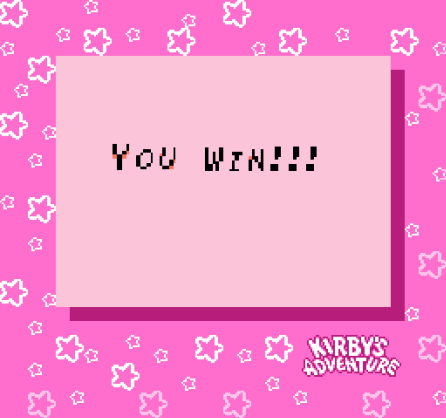
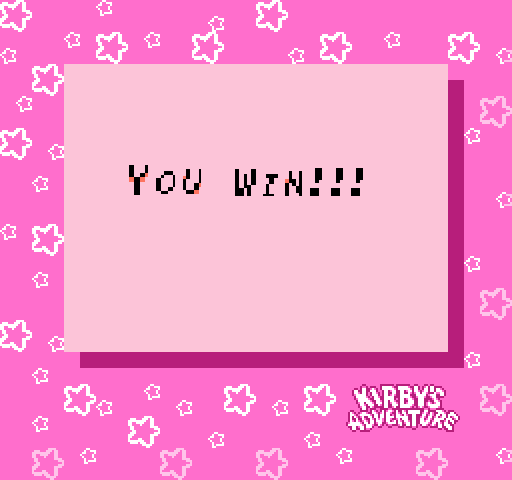
Win Screen and Level 2 Harder

diff --git a/js/startscene.js b/js/startscene.js
@@ -8,7 +8,8 @@ compiling.audio.push(
     {"levelBoss": "BossBattle.mp3"},
     {"gameOver": "GameOver.mp3"},
     {"lostLife": "LostLife.mp3"},
-    {"hit": "Hit.mp3"}
+    {"hit": "Hit.mp3"},
+    {"victory": "MinorVictory.mp3"}
 );
 
 compiling.sheet.push({
@@ -29,10 +30,13 @@ compiling.sheet.push({
 }, {
     "png_path": "deathScreen.png",
     "json_path": "deathScreen.json"
-},{
+});
+
+compiling.sheet.push({
     "png_path": "win.png",
     "json_path": "win.json"
 });
+
 
 var aux = new Array(60);
 for (let i = 0; i < 59; i++){
@@ -74,7 +78,7 @@ Q.animations("handSelect", {
 });
 
 Q.animations("winAnim", {
-    winMatch: {frames:[0]}
+    end: {frames:[0]}
 });
 
 Q.animations("deathAnim", {
@@ -153,15 +157,17 @@ Q.Sprite.extend("gameOver", {
 Q.Sprite.extend("Win", {
     init: function(p){
         this._super(p, {
-            x: 55,
-            y: 40,
             sheet: "win",
             sprite: "winAnim",
+            animation: "end",
+            x: 55,
+            y: 40
         });
+        
         this.add('animation');  
     },
     step: function(dt){
-        this.play("winMatch");
+        this.play("end");
     }
 });
 
@@ -338,12 +344,7 @@ Q.scene('winScene',function(stage) {
         h: 180,
         w: 180,
     }));
-    
+    Q.audio.play("victory");
+    Q.handSelection = false;
     stage.insert(new Q.Win(), container);
-    Q.input.on("confirm",stage,function() {  
-        Q.audio.stop();
-        //Q.clearStages();
-       // Q.inputKeys = true;
-       //Q.handSelection = false;
-    });
 });

diff --git a/js/entities/enemies/enemy.js b/js/entities/enemies/enemy.js
@@ -72,10 +72,16 @@ Q.component("Enemy", {
 			const ex = this.entity.p.x;*/
 			//this.p.vx = 
 		}else if(entity.killEnemy){
-            
             if(this.entity.isBoss &&  this.entity.timeInvencible <= 0){
                 Q.state.dec("bossHEALTH", 1);
                 this.entity.timeInvencible = 0.5;
+                if (Q.state.get("bossHEALTH") <= 0) {
+                    Q.clearStages();
+                    Q.inputKeys = false;
+                    Q.handSelection = false;
+                    Q.audio.stop();
+                    Q.stageScene("winScene");
+                }
             }else if(!this.entity.isBoss){
                 Q.state.inc("score", 1000);
                 this.entity.trigger("change_state", ENEMY_STATE.DIE);
